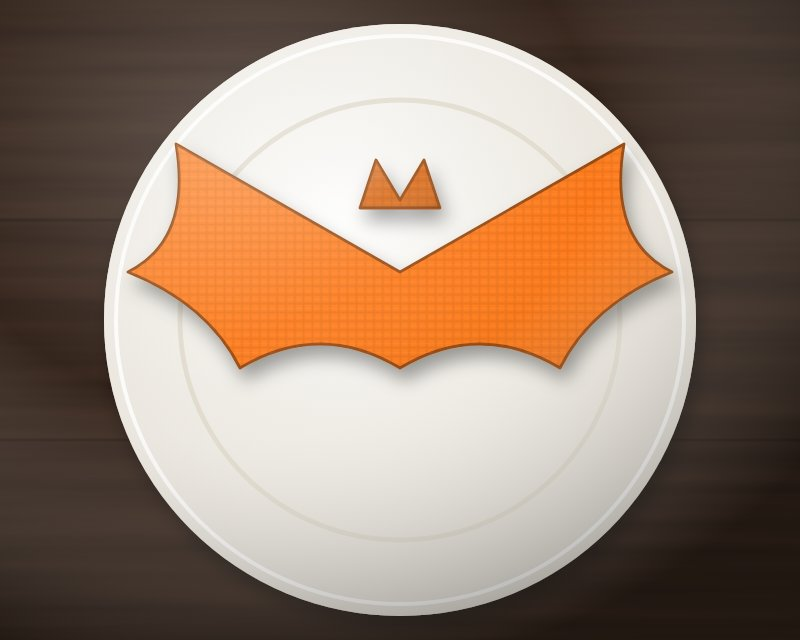
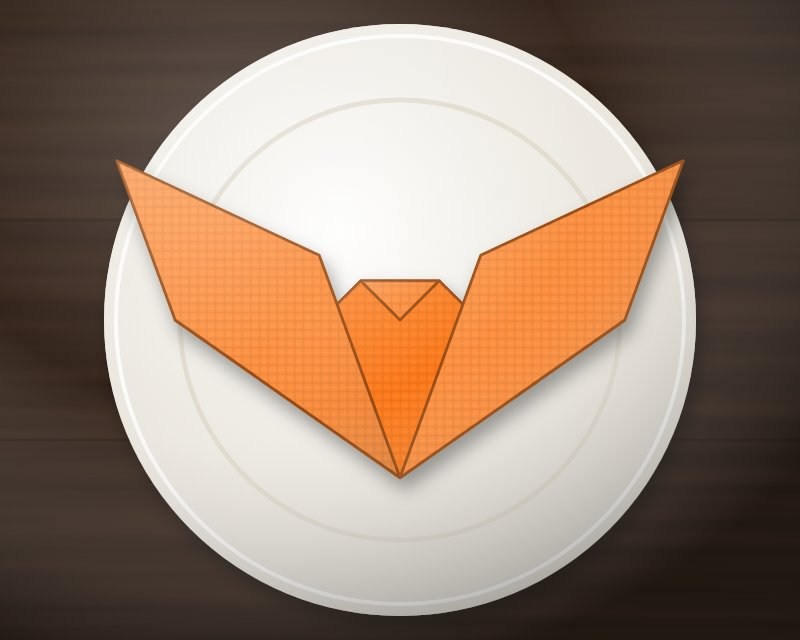
Redraw the Bat from the source's own steps and fold geometry
The old drawing showed separate ears and scalloped wings that the folds
can't produce. Steps now follow the Instructables author's eight steps,
and every drawing is computed by reflecting the folds: the wings rise
from one point at the bottom, the head is the flipped-up corner between
them, and the ears are the corners left when its tip folds down.

Claude-Session: https://claude.ai/code/session_017V54dmbP32FEM7bAP7tsiV

Changed region(s): [[0.125, 0.2188, 0.875, 0.7812]]

diff --git a/public/js/folds-extra.js b/public/js/folds-extra.js
@@ -550,40 +550,64 @@
       name: 'Bat',
       emoji: '🦇',
       difficulty: 'Easy',
-      minutes: 2,
-      blurb: 'Pointy ears and swooping wings in seven folds: a spooky little bat for every plate.',
-      tip: 'Black napkins (freshly ironed) give the best bats.',
+      minutes: 1,
+      blurb: 'Two swooping wings and a pointy-eared head from one napkin, folded in under a minute.',
+      tip: 'Start with a freshly ironed square cloth napkin. Black is best for bats.',
       sources: [{ name: 'Instructables – Bat Napkin Folding', url: 'https://www.instructables.com/Bat-Napkin-Folding/' }],
       steps: [
-        triangleStep('Lay the napkin wrong side up with a corner pointing toward you, and fold it in half corner to corner.'),
         {
-          title: 'Fold in half again',
-          text: 'Fold it in half again, side to side, keeping the edges even.',
-          shapes: [P(TRI)],
-          lines: [[50, 22, 50, 62]],
-          arrows: [A(14, 58, 46, 50, 0.3)],
+          title: 'Make a triangle',
+          text: 'Lay the napkin wrong side up with a corner pointing up. Fold it in half by bringing the bottom corner up to the top corner.',
+          shapes: [P('50,8 82,40 50,72 18,40')],
+          lines: [[18, 40, 82, 40]],
+          arrows: [A(50, 68, 50, 12, 0.35)],
         },
         {
-          title: 'Fold up the point',
-          text: 'Turn it so the right-angled corner points down. Fold that bottom point up and over the top edge, leaving a small point sticking up for the head.',
-          shapes: [P('22,24 78,24 50,52')],
-          lines: [[34, 34, 66, 34]],
-          arrows: [A(50, 50, 50, 18, 0.4)],
+          title: 'Fold in half again',
+          text: 'Fold it in half again by bringing the right point over to meet the left point. Keep the folds even.',
+          shapes: [P('18,40 82,40 50,8')],
+          lines: [[50, 8, 50, 40]],
+          arrows: [A(80, 37, 22, 37, 0.3)],
+        },
+        {
+          title: 'Fold up the head',
+          text: 'Turn the napkin so the 90° corner points down. Fold that bottom corner up and over the top edge so about 5 cm (2 in) overlaps, leaving a small point sticking up at the top. This will be the bat’s head.',
+          shapes: [P('16,30 84,30 50,64')],
+          lines: [[29.6, 43.6, 70.4, 43.6]],
+          arrows: [A(50, 62, 50, 25, 0.4)],
         },
         {
           title: 'Fold up the wings',
-          text: 'Fold the two side flaps up at about 45° to make the wings.',
-          shapes: [P('22,24 78,24 66,34 34,34'), P('44,24 56,24 50,16', 1)],
+          text: 'Hold your index finger on the centre of the bottom edge and fold the right side up at a 45° angle to make one wing. Repeat on the left side.',
+          shapes: [P('16,30 84,30 70.4,43.6 29.6,43.6'), P('29.6,43.6 70.4,43.6 50,23.2', 1), C(50, 43.6, 1.8, 0, 'white')],
           lines: [
-            [40, 24, 34, 34],
-            [60, 24, 66, 34],
+            [50, 43.6, 69.4, 30],
+            [50, 43.6, 30.6, 30],
           ],
-          arrows: [A(26, 28, 28, 14, 0.4), A(74, 28, 72, 14, -0.4)],
+          arrows: [A(82, 34, 72, 14, -0.4), A(18, 34, 28, 14, 0.4)],
+        },
+        {
+          title: 'Make the ears',
+          text: 'Fold the top middle point (the head) down about 2.5 cm (1 in). Its two new corners become the ears.',
+          shapes: [
+            P('23.8,34 76.2,34 50,52.4', -1),
+            P('50,52.4 33.8,41 50,24.8 66.2,41'),
+            P('50,52.4 40.5,26.4 17.1,15.5 23.8,34', 1),
+            P('50,52.4 59.5,26.4 82.9,15.5 76.2,34', 1),
+          ],
+          lines: [[45.4, 28.7, 54.6, 28.7]],
+          arrows: [A(55, 20, 52, 33, -0.6)],
         },
       ],
       final: {
-        text: 'Fold the top middle point down about 2.5 cm (1 in) and press the top edge to make the ears.',
-        shapes: [D('M50 34L22 18Q24 30 16 34Q26 38 30 46Q40 40 50 46Q60 40 70 46Q74 38 84 34Q76 30 78 18Z'), P('45,26 47,20 50,25 53,20 55,26', -1)],
+        text: 'Press the folds flat and lay your bat on the plate, wings up.',
+        shapes: [
+          P('21.9,40 78.1,40 50,59.7', -1),
+          P('50,59.7 32.6,47.5 45.1,35.1 54.9,35.1 67.4,47.5'),
+          P('45.1,35.1 54.9,35.1 50,40', 1),
+          P('50,59.7 39.9,31.9 14.6,20.1 21.9,40', 1),
+          P('50,59.7 60.1,31.9 85.4,20.1 78.1,40', 1),
+        ],
         prop: 'plate',
       },
     },
